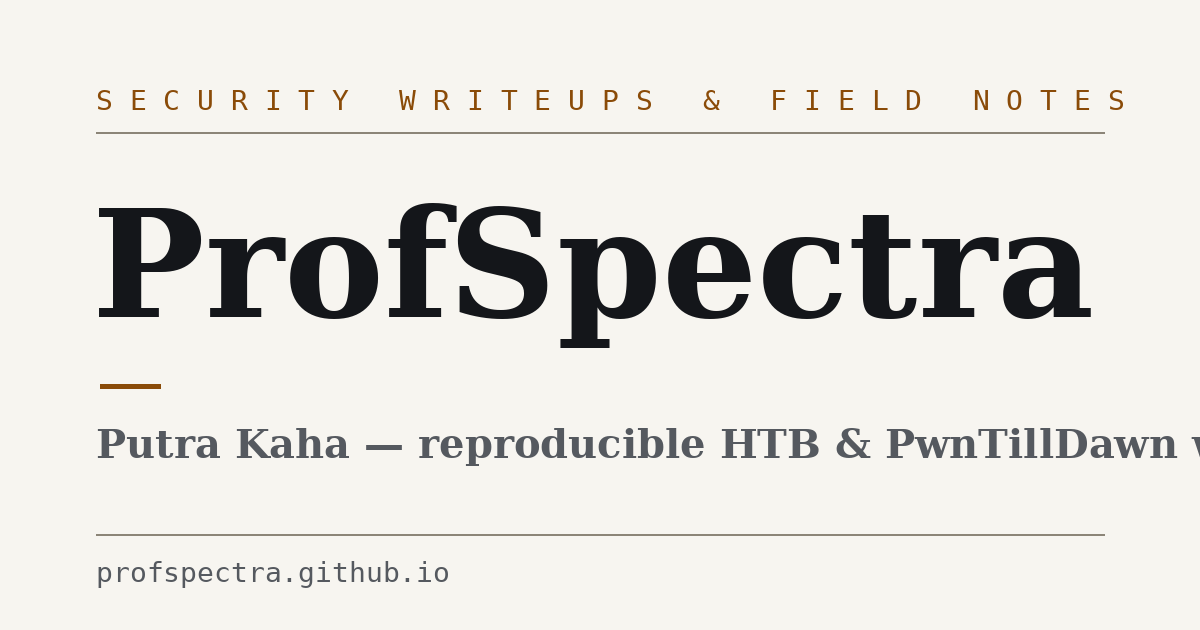
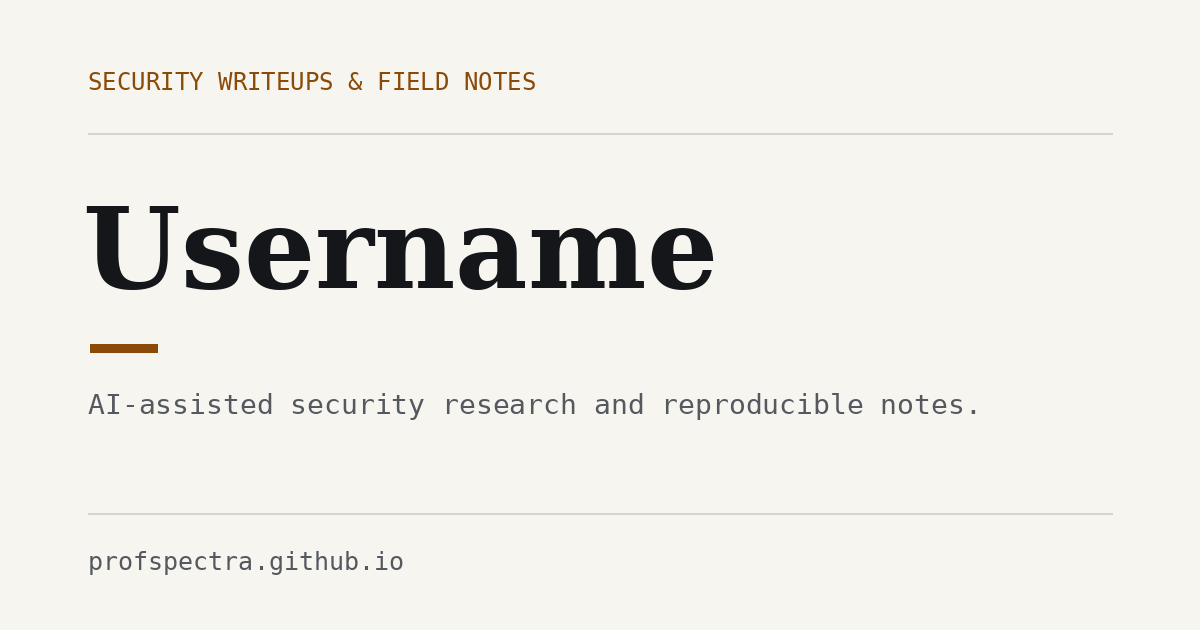
Use Username identity and restore default profile picture

diff --git a/_includes/sidebar.html b/_includes/sidebar.html
@@ -1,21 +1,19 @@
 {%- comment -%}
-  ProfSpectra sidebar override.
+  Username sidebar override.
   Same as the theme's sidebar.html except:
   - nav items use aria-current="page" instead of a color-only `active` class;
-  - the profile block renders the compact ProfSpectra monogram instead of
-    a full-width avatar image.
+  - the profile block uses the original default profile picture.
 {%- endcomment -%}
 
 <!-- The Side Bar -->
 
 <aside aria-label="Sidebar" id="sidebar" class="d-flex flex-column align-items-end">
   <header class="profile-wrapper">
-    <a href="{{ '/' | relative_url }}" id="avatar" class="ps-monogram" aria-label="ProfSpectra home">
+    <a href="{{ '/' | relative_url }}" id="avatar" class="rounded-circle" aria-label="Username home">
       {%- capture avatar_url -%}
         {% include media-url.html src=site.avatar %}
       {%- endcapture -%}
-      <img src="{{- avatar_url -}}" width="112" height="112" alt="" onerror="this.style.display='none'">
-      <span class="ps-monogram-text" aria-hidden="true">PS</span>
+      <img src="{{- avatar_url -}}" width="112" height="112" alt="Username profile picture" onerror="this.style.display='none'">
     </a>
 
     <a class="site-title d-block" href="{{ '/' | relative_url }}">{{ site.title }}</a>

diff --git a/tools/check_site.py b/tools/check_site.py
@@ -82,11 +82,11 @@ def png_dims(path):
 # ---------------------------------------------------------------------------
 home = read("index.html")
 title_m = re.search(r"<title>.*?</title>", home)
-check("identity: site title is ProfSpectra",
-      re.search(r"<title>\s*ProfSpectra\s*</title>", home),
+check("identity: site title is Username",
+      re.search(r"<title>\s*Username\s*</title>", home),
       title_m.group(0) if title_m else "no title")
-check("identity: og:site_name is ProfSpectra",
-      'property="og:site_name" content="ProfSpectra"' in home)
+check("identity: og:site_name is Username",
+      'property="og:site_name" content="Username"' in home)
 check("identity: description is not the Chirpy theme tagline",
       "minimal, responsive and feature-rich" not in home
       and 'name="description" content="' in home)
@@ -120,8 +120,8 @@ except FileNotFoundError:
     check("writeups: /writeups/ page exists", False, "missing _site/writeups/index.html")
 
 if writeups:
-    check("writeups: title is 'Writeups | ProfSpectra'",
-          re.search(r"<title>\s*Writeups \| ProfSpectra\s*</title>", writeups) is not None)
+    check("writeups: title is 'Writeups | Username'",
+          re.search(r"<title>\s*Writeups \| Username\s*</title>", writeups) is not None)
     missing = []
     for p in all_source_posts():
         title = fm_get(front_matter_of(p), "title")
@@ -494,10 +494,10 @@ for rel, text in (("index.html", home),
 
 sidebar = re.search(r"<aside[^>]*Sidebar[^>]*>.*?</aside>", home, re.S)
 if sidebar:
-    check("fabrication: default avatar gone from sidebar",
-          "web-app-manifest-512x512.png" not in sidebar.group(0))
-    check("fabrication: monogram mark used in sidebar",
-          "profspectra-mark" in sidebar.group(0))
+    check("identity: original default avatar used",
+          "web-app-manifest-512x512.png" in sidebar.group(0))
+    check("identity: custom monogram not used",
+          "profspectra-mark" not in sidebar.group(0) and "ps-monogram" not in sidebar.group(0))
 check("fabrication: dead X handle not used", "x.com/ros.putra" not in home)
 check("fabrication: working X handle present", "ros_putra" in home)
 
@@ -505,7 +505,7 @@ for m in re.finditer(r'<script type="application/ld\+json">(.*?)</script>', home
     try:
         blob = json.dumps(json.loads(m.group(1)))
         check("jsonld: chosen display name present", '"name":"Username"' in blob or '"name": "Username"' in blob)
-        check("jsonld: has ProfSpectra identity", "ProfSpectra" in blob)
+        check("jsonld: has Username identity", "Username" in blob)
     except json.JSONDecodeError:
         check("jsonld: home JSON-LD parses", False, m.group(1)[:120])
 

diff --git a/Boot2Root/Hack The Box/_posts/2026-11-14-Hack-The-Box-DoubleTake.md b/Boot2Root/Hack The Box/_posts/2026-11-14-Hack-The-Box-DoubleTake.md
@@ -1,7 +1,7 @@
 ---
 layout: post
 title:  "Hack The Box - DoubleTake"
-description: A Hack The Box Linux Boot2Root Challenge Rated Easy - by ProfSpectra
+description: A Hack The Box Linux Boot2Root Challenge Rated Easy - by Username
 tags: HackTheBox Linux Boot2Root Easy
 media_subpath: /assets/img/writeups/HackTheBox/DoubleTake/
 image:
@@ -20,7 +20,7 @@ image:
 | **Operating System** | Ubuntu host, Alpine Linux container                                |
 | **Vulnerabilities**  | CVE-2026-123158 (SSHole) and CVE-2026-41567 (Docker archive decompression) |
 
-*This machine was solved autonomously by the ProfSpectra AI agent.*
+*This machine was solved autonomously by the Username AI agent.*
 
 *The flags recorded below are from the original solve on 10.129.75.242. The terminal and web UI screenshots were captured from a fresh live instance at 10.129.76.27; HTB rotates flag values between instances, so the values visible in `07-user-flag.png` and `09-root-flag.png` belong to that second instance and intentionally differ from the recorded flags. The cover image is the user's challenge completion screen.*
 

diff --git a/Boot2Root/Hack The Box/_posts/2026-11-14-Hack-The-Box-Cohort.md b/Boot2Root/Hack The Box/_posts/2026-11-14-Hack-The-Box-Cohort.md
@@ -1,7 +1,7 @@
 ---
 layout: post
 title:  "Hack The Box - Cohort"
-description: A Hack The Box Linux Boot2Root Challenge - by ProfSpectra
+description: A Hack The Box Linux Boot2Root Challenge - by Username
 tags: HackTheBox Linux Boot2Root
 media_subpath: /assets/img/writeups/Hack The Box/Cohort/
 image:
@@ -21,7 +21,7 @@ image:
 | **Entry vector**    | SSRF in the source-validation API, then an unauthenticated WebSocket PTY |
 | **Privilege escalation** | VsockDrop page-refcount underflow (CVE-2026-53365)       |
 
-*This machine was solved autonomously by the ProfSpectra AI agent.*
+*This machine was solved autonomously by the Username AI agent.*
 
 *The flags recorded below were read from the current reset instance `10.129.76.96`. Earlier sessions on a previous instance of the same box produced different flag values, so only the reset-instance values are published here.*
 

diff --git a/Boot2Root/Hack The Box/_posts/2026-11-14-Hack-The-Box-Management.md b/Boot2Root/Hack The Box/_posts/2026-11-14-Hack-The-Box-Management.md
@@ -20,7 +20,7 @@ image:
 | **Operating System** | Linux (Ubuntu)      |
 | **Platform**         | Hack The Box        |
 
-*This machine was solved autonomously by the ProfSpectra AI agent.*
+*This machine was solved autonomously by the Username AI agent.*
 
 ## Summary
 

diff --git a/Boot2Root/Hack The Box/_posts/2026-11-13-Hack-The-Box-Touch.md b/Boot2Root/Hack The Box/_posts/2026-11-13-Hack-The-Box-Touch.md
@@ -19,7 +19,7 @@ image:
 | **Difficulty**       | Easy      |
 | **Operating System** | Windows   |
 
-*This machine was solved autonomously by the ProfSpectra AI agent.*
+*This machine was solved autonomously by the Username AI agent.*
 
 ## Summary
 

diff --git a/README.md b/README.md
@@ -1,4 +1,4 @@
-# ProfSpectra
+# Username
 
 Source for [profspectra.github.io](https://profspectra.github.io) — Username's security
 writeups and cheatsheets. Jekyll + the Chirpy theme (gem, not a fork), published as
